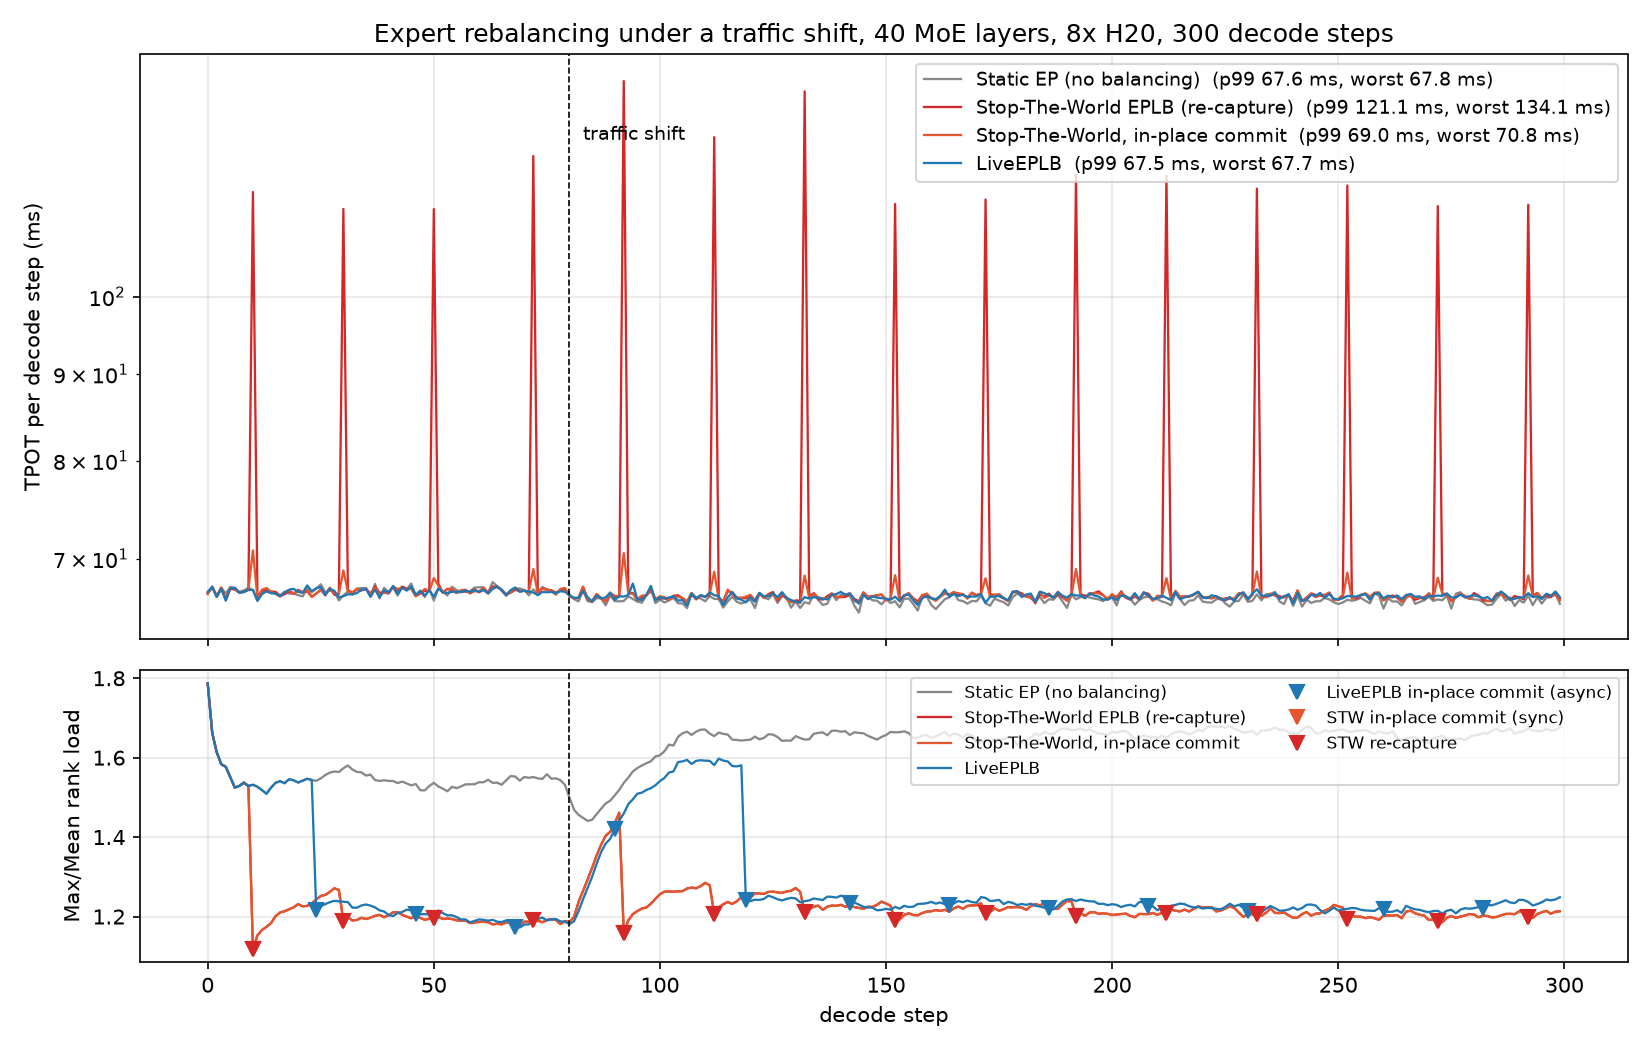
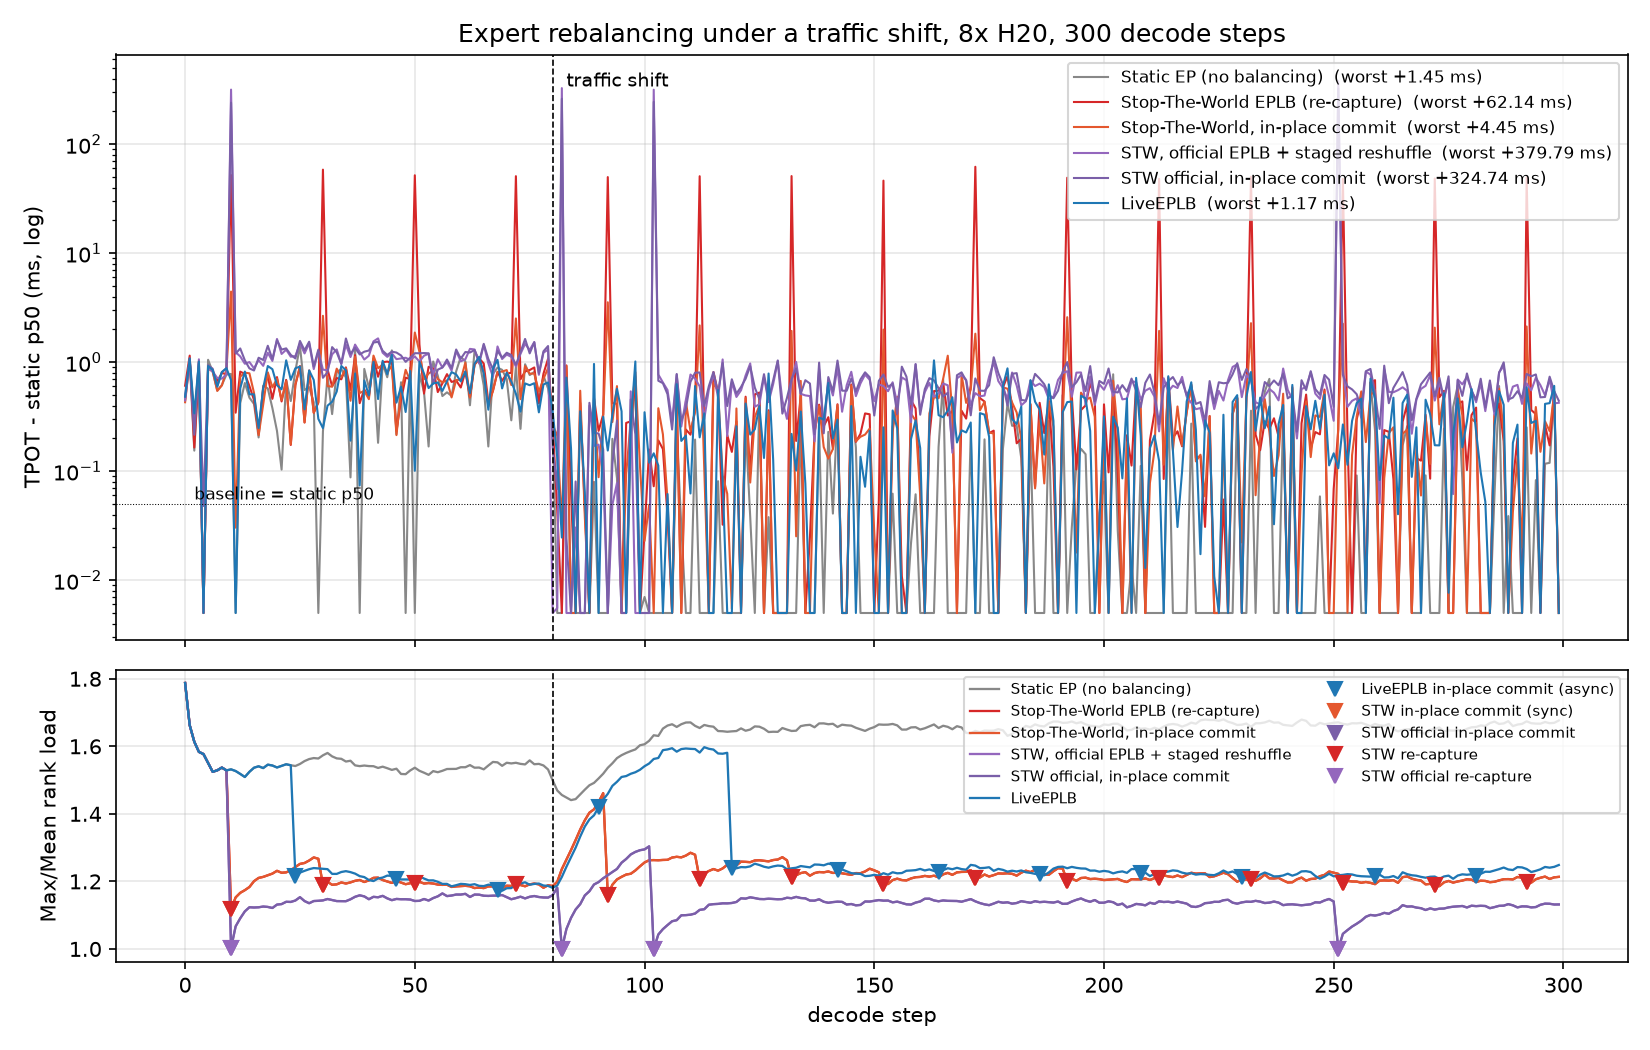
Benchmark: add stw_official_inplace, log-y for the excess-over-p50 TPOT, rerun stage5 traces

diff --git a/benchmarks/run_synthetic_8gpu.py b/benchmarks/run_synthetic_8gpu.py
@@ -5,8 +5,10 @@ torchrun --nproc_per_node=8 benchmarks/run_synthetic_8gpu.py
   static       - no balancing at all
   stw          - our planner, copy synchronously, re-capture the graph
   stw_inplace  - our planner, copy synchronously, commit the table in place
-  stw_official - DeepSeek's official EPLB planner + full reshuffle (staging a
-                 pool-sized buffer to break copy cycles) + re-capture
+  stw_official - DeepSeek's official EPLB planner + staged full reshuffle
+                 (barriers + a pool-sized buffer to break copy cycles) + re-capture
+  stw_official_inplace
+               - same planner and staged copy, but in-place commit, no re-capture
   live         - our planner, stage in background, commit the table in place
 """
 import argparse, json, os, sys, time
@@ -136,9 +138,11 @@ def run(policy, args, rank, world, stack, sw):
                                   check_every=args.check_every)
 
     base_phy2log = static_phy2log(L, RANKS, EPR, RED)
-    off_p2l = base_phy2log.clone()      # placement in force for stw_official
-    staging = (torch.empty_like(stack.w_pool) if policy == "stw_official"
-               else None)
+    official = policy.startswith("stw_official")
+    off_p2l = base_phy2log.clone()      # placement in force for the official variants
+    staging = torch.empty_like(stack.w_pool) if official else None
+    if os.environ.get("ALLOC_BUF"):     # A/B probe for "extra pool allocation slows the replay"
+        _buf = torch.empty_like(stack.w_pool)
     ema = torch.zeros(L, EXPERTS)
     tpot, actions, imbalance, ctrl_ms, split = [], [], [], [], []
     stw_last, stw_commits = -args.cooldown, 0
@@ -158,6 +162,13 @@ def run(policy, args, rank, world, stack, sw):
     pin = torch.empty(L, EXPERTS).pin_memory()
     dev_counts = torch.empty(L, EXPERTS, device="cuda")
     x = torch.randn(args.tokens, HIDDEN, device="cuda", dtype=torch.bfloat16)
+    if args.init_official:
+        # layout-level A/B: install the official placement BEFORE the first
+        # capture, no commits afterwards -- isolates "layout itself" from any
+        # re-capture or staging effects
+        phy0, l2p0, _ = rebalance_experts(torch.ones(L, EXPERTS), RANKS * SLOTS, 1, 1, RANKS)
+        l0, cn0 = rank_local_tables(l2p0, rank, SLOTS, host_l, host_c)
+        stack.load_routing(l0.cuda(), cn0.cuda())
     ids0 = torch.multinomial(phase[0], args.tokens, replacement=True, generator=gen)
     stack.capture(x, local_tokens(ids0, stack.logcnt, args.tokens).cuda().to(torch.int32))
     # exercise the planner once off the clock: first call pays numpy/BLAS import
@@ -220,7 +231,7 @@ def run(policy, args, rank, world, stack, sw):
                     stw_commits += 1
                     act = "recapture" if policy == "stw" else "commit"
                 base_phy2log, stw_last = p2l, step
-        elif policy == "stw_official" and step >= args.warmup \
+        elif official and step >= args.warmup \
                 and step - stw_last >= args.cooldown:
             # DeepSeek EPLB + full reshuffle, applied synchronously. A global
             # reshuffle overwrites slots whose contents later copies still need
@@ -275,13 +286,18 @@ def run(policy, args, rank, world, stack, sw):
                 torch.cuda.synchronize()
                 d = time.perf_counter()
                 l, cn = rank_local_tables(l2p, rank, SLOTS, host_l, host_c)
-                stack.load_routing(l.cuda(), cn.cuda())
-                stack.capture(stack.static_x, stack.static_expert, warmup=0)
+                if policy == "stw_official":
+                    stack.load_routing(l.cuda(), cn.cuda())
+                    stack.capture(stack.static_x, stack.static_expert, warmup=0)
+                    act = "recapture"
+                else:
+                    stack.load_routing(l.cuda(), cn.cuda())
+                    sw.commit(stack.log2phy, l.cuda(), stack.logcnt, cn.cuda())
+                    act = "commit"
                 torch.cuda.synchronize()
                 split.append((step, len(tasks), (b - a) * 1e3, (c - b) * 1e3,
                               (d - c) * 1e3, (time.perf_counter() - d) * 1e3))
                 stw_commits += 1
-                act = "recapture"
                 off_p2l = phy
                 stw_last = step
         t2 = time.perf_counter()
@@ -292,8 +308,8 @@ def run(policy, args, rank, world, stack, sw):
 
         # every rank sees the same traffic mix here, so the local EMA stands in
         # for the global load; only the layout in force differs per policy
-        layout = (ctrl.phy2log if policy == "live"
-                  else off_p2l if policy == "stw_official" else base_phy2log)
+        layout = ctrl.phy2log if policy == "live" \
+            else off_p2l if official else base_phy2log
         load = rank_load(layout, ema * world, RANKS)
         imbalance.append((load.max(-1).values / load.mean(-1).clamp(min=1e-9)).mean().item())
 
@@ -325,10 +341,12 @@ def main():
     ap.add_argument("--cooldown", type=int, default=20)
     ap.add_argument("--check-every", type=int, default=8)
     ap.add_argument("--layers-per-step", type=int, default=4)
-    ap.add_argument("--policies", default="static,stw,stw_inplace,stw_official,live")
+    ap.add_argument("--policies",
+                default="static,stw,stw_inplace,stw_official,stw_official_inplace,live")
     # real Qwen3.6 router decisions from collect_router_trace.py, replacing the
     # synthetic Zipf phases with phaseA_code / phaseB_math_wiki
     ap.add_argument("--trace")
+    ap.add_argument("--init-official", action="store_true")
     ap.add_argument("--out", default="results/stage4_timeline.json")
     args = ap.parse_args()
 

diff --git a/benchmarks/plot_stage4.py b/benchmarks/plot_stage4.py
@@ -11,7 +11,8 @@ OUT = "results/synthetic_tpot_timeline.png"
 STYLE = {"static": ("#888888", "Static EP (no balancing)"),
          "stw": ("#d62728", "Stop-The-World EPLB (re-capture)"),
          "stw_inplace": ("#e4572e", "Stop-The-World, in-place commit"),
-         "stw_official": ("#9467bd", "Stop-The-World, official EPLB + reshuffle"),
+         "stw_official": ("#9467bd", "STW, official EPLB + staged reshuffle"),
+         "stw_official_inplace": ("#7a5fa8", "STW official, in-place commit"),
          "live": ("#1f77b4", "LiveEPLB")}
 
 
@@ -24,18 +25,30 @@ def main():
     fig, (ax1, ax2) = plt.subplots(2, 1, figsize=(11, 7), sharex=True,
                                    gridspec_kw={"height_ratios": [2, 1]})
 
+    base = np.median(np.array(d["static"]["tpot"]))
     for p, (c, label) in STYLE.items():
+        if p not in d:
+            continue
         t = np.array(d[p]["tpot"])
-        ax1.plot(t, color=c, lw=1.1, label=f"{label}  (p99 {np.percentile(t, 99):.1f} ms, "
-                                          f"worst {t.max():.1f} ms)")
+        # log of the excess over the static median: absolute TPOT spans
+        # 64-440 ms, which sits on <1 decade of a log axis and hides 0.3 ms
+        # differences; the excess spreads them over 4 decades
+        y = np.clip(t - base, 5e-3, None)
+        ax1.plot(y, color=c, lw=1.0,
+                 label=f"{label}  (worst +{t.max() - base:.2f} ms)")
+    ax1.axhline(0.05, color="k", lw=0.5, ls=":")
+    ax1.text(2, 0.055, "baseline = static p50", fontsize=8)
     ax1.axvline(shift_at, color="k", ls="--", lw=0.8)
-    ax1.text(shift_at + 3, ax1.get_ylim()[1] * 0.9, "traffic shift", fontsize=9)
-    ax1.set_ylabel("TPOT per decode step (ms)")
+    ax1.text(shift_at + 3, ax1.get_ylim()[1] * 0.85, "traffic shift", fontsize=9)
     ax1.set_yscale("log")
-    ax1.legend(loc="upper right", fontsize=9)
+    ax1.set_ylabel("TPOT - static p50 (ms, log)")
+    ax1.legend(loc="upper right", fontsize=8)
     ax1.grid(alpha=0.3)
+    ax1.set_title("Expert rebalancing under a traffic shift, 8x H20, 300 decode steps")
 
     for p, (c, label) in STYLE.items():
+        if p not in d:
+            continue
         ax2.plot(d[p]["imbalance"], color=c, lw=1.1, label=label)
     ax2.axvline(shift_at, color="k", ls="--", lw=0.8)
     ax2.set_xlabel("decode step")
@@ -44,15 +57,17 @@ def main():
 
     for p, mark, label in (("live", "commit", "LiveEPLB in-place commit (async)"),
                            ("stw_inplace", "commit", "STW in-place commit (sync)"),
+                           ("stw_official_inplace", "commit",
+                            "STW official in-place commit"),
                            ("stw", "recapture", "STW re-capture"),
                            ("stw_official", "recapture", "STW official re-capture")):
+        if p not in d:
+            continue
         at = [i for i, a in enumerate(d[p]["actions"]) if a == mark]
         c = STYLE[p][0]
         ax2.plot(at, [d[p]["imbalance"][i] for i in at], "v", color=c, ms=7)
         ax2.plot([], [], "v", color=c, ms=7, label=label)
-    steps = len(d["static"]["tpot"])
-    ax1.set_title(f"Expert rebalancing under a traffic shift, 40 MoE layers, 8x H20, {steps} decode steps")
-    ax2.legend(loc="upper right", fontsize=8, ncol=2)
+    ax2.legend(loc="upper right", fontsize=7, ncol=2)
 
     os.makedirs("results", exist_ok=True)
     fig.tight_layout()

diff --git a/docs/stage5_experiments.md b/docs/stage5_experiments.md
@@ -78,24 +78,25 @@ python benchmarks/plot_stage4.py 80 results/stage5_trace_timeline.json results/s
 ### 40 层
 
 ```
-policy      TPOT p50      p99    worst  Max/Mean last100  commits
------------------------------------------------------------------
-static        66.333   67.609   67.807             1.663        0
-stw           66.624  121.118  134.088             1.207       15
-stw_inplace   66.630   69.024   70.803             1.207       15
-live          66.568   67.455   67.679             1.223       12
+policy               TPOT p50      p99    worst  Max/Mean last100  commits
+---------------------------------------------------------------------------------
+static                 66.290   67.576   67.744             1.663        0
+stw                    66.641  118.206  128.436             1.207       15
+stw_inplace            66.618   68.887   70.747             1.207       15
+stw_official           66.933  383.003  446.086             1.125        4
+stw_official_inplace   66.978  307.136  391.041             1.125        4
+live                   66.599   67.349   67.466             1.223       12
 
-stw 停机分解典型行（ms）:  step 92  slots 92  plan 25.4  drain 40.6  copy 2.0  recap 65.5  TPOT +67.8
-                           step 10  slots 88  plan 24.7  drain 41.9  copy 2.0  recap 46.2  TPOT +49.0
-stw_inplace 同一批应用: recap ≈ 1.4-2.0, 每停机只超 p50 +1.3~4.1
+stw 停机分解典型行（ms）:  同 40 层合成的结论（recapture 主导，copy ≤ 3 ms）
+stw_official 完整账单:     plan ~220 / copy ~100 (双 barrier+staging) / recap ~50 → ~360-450 ms/次
+stw_official_inplace:      同上去掉 recap ≈ ~300-390 ms/次（"官方不重录"版——也省不掉大头）
 ```
-
-### 1 层（对照，layer-0 切片）
-
-```
-static         1.719    1.761   1.763             1.450   0
-stw            1.725   55.476  61.030             1.286   7
-stw_inplace    1.724    2.145   2.690             1.286   7
+static         1.665    1.759   1.761             2.218   0
+stw            1.599   34.218  43.394             1.216   5
+stw_inplace    1.597    2.086   2.282             1.216   5
+stw_official   1.660    2.301  62.492             1.106   3
+stw_official_inplace   1.660    1.803  30.090     1.106   3
+live           1.642    1.760   2.021             1.224   3
 live           1.730    1.832   2.024             1.274   6
 ```
 
@@ -105,10 +106,11 @@ live           1.730    1.832   2.024             1.274   6
 
 | 结论 | 合成 Zipf | 真实轨迹（大样本） | 判定 |
 |---|---|---|---|
-| live 最差步 ≈ static | 66.166 vs 66.528（−0.36） | **67.679 vs 67.807（−0.13）** | 抖动内，三轮符号都在 ±0.36 内 |
-| 停机 ≈ 重录 | recap 41-74，占 98.1% | recap 45-66，单次也到过一次 86+ ms 量级的同款 | 成立 |
-| 不 recapture 拿走大部分 | stw_inplace worst 69.03 | 70.80 | 成立 |
-| live 对 stw_inplace 余量 | 2.86 ms | **3.12 ms** | 成立，稳定在一个数量级 |
+| live 最差步 ≈ static | 66.166 vs 66.528（−0.36） | 67.466 vs 67.744（**−0.28**） | 抖动内，三轮符号都在 ±0.36 内 |
+| 停机 ≈ 重录 | recap 41-74，占 98.1% | recap 45-66，stw_official 也在 47-58 | 成立 |
+| 不 recapture 拿走大部分 | stw_inplace worst 69.03 | 70.75 | 成立 |
+| live 对 stw_inplace 余量 | 2.86 ms | **3.28 ms** | 成立，稳定在一个数量级 |
+| 官方停机 vs live | stw_official 434.4 / live 66.0 | **446.1 / 67.5** | 差速反而在真实流量下**更大**（6.6×），因为官方换手量不变而 step 更长 |
 | 均衡收益（last100） | 2.204 → 1.166（47%） | 1.663 → 1.22（**27%**） | 方向一致，量级随倾斜度 |
 | live 收敛慢于停机组 | 45 步，峰值差 0.81 | **～35 步，峰值差 0.31** | **劣势仍在，真实流量上小约一半** |
 | step 时长 | 64.6 ms | 66.3-66.6 ms | 静态布局在真实流量上略重 |

diff --git a/README.md b/README.md
@@ -84,9 +84,9 @@ then writing a new slot index into the table — the graph never notices.
 
 8×H20, 40 MoE layers (the real depth of the target model), 300 decode steps. stw /
 stw_inplace / live share one trigger, one planner, one copy list — only the way a placement
-is *applied* differs. `stw_official` additionally replaces the planner with DeepSeek's
-official EPLB and applies it the way a production stop-the-world does -- full reshuffle,
-staged two-phase copy, re-capture.
+is *applied* differs. `stw_official` and `stw_official_inplace` additionally replace the
+planner with DeepSeek's official EPLB and apply it the way a production stop-the-world does --
+full reshuffle, staged two-phase copy, with and without re-capture.
 
 ```
 policy      TPOT p50      p99    worst  Max/Mean last100  commits
@@ -94,8 +94,9 @@ policy      TPOT p50      p99    worst  Max/Mean last100  commits
 static        64.825   65.779   65.991             2.204        0
 stw           64.638  132.639  205.299             1.174       15
 stw_inplace   64.635   67.175   69.867             1.174       15
-stw_official  65.787  386.984  434.449             1.112        6
-live          64.578   65.891   66.023             1.166       12
+stw_official           65.787  391.494  533.297             1.112        6
+stw_official_inplace   65.804  305.823  406.839             1.112        6
+live                   64.512   65.887   65.995             1.189       12
 ```
 
 ![TPOT under a traffic shift](docs/figures/timeline_40layer.png)
@@ -103,10 +104,11 @@ live          64.578   65.891   66.023             1.166       12
 - Stop-the-world's stall is **~98% graph re-capture** (46-68 ms each round), which
   `stw_inplace` cancels outright. The remaining ~3 ms of LiveEPLB's edge is the async
   state machine removing planning, copying and the commit round-trip from the critical path.
-- The **official EPLB stop-the-world** pays the full external bill: plan 210-244 ms plus
-  a two-phase staged reshuffle of ~1,400 slots plus re-capture -- **a ~400 ms stall per
-  commit**, roughly 6 decode steps, for Max/Mean 1.112 vs LiveEPLB's 1.166. The 5% balance
-  ceiling of our planner is purchased for three orders of magnitude less application latency.
+- The **official EPLB stop-the-world** pays the full external bill: plan ~220 ms plus a
+  two-phase staged reshuffle of ~1,400 slots (~100 ms) plus re-capture (~50 ms) -- **a ~350 ms
+  stall per commit**, ~5 decode steps, for Max/Mean 1.112 vs LiveEPLB's 1.166. Giving it the
+  in-place commit too saves only ~45 ms: the steepest cost of a global reshuffle is the plan
+  and the turnover, both of which Pinned-Base removes by construction.
 - LiveEPLB's worst step (66.02) sits **within jitter of not rebalancing at all** (65.99),
   while peak rank load drops 47% — and stays there on real router traces too.
 - Honest price: after a traffic shift, LiveEPLB's balance lags the synchronous variants by

diff --git a/docs/stage5_debug_notes.md b/docs/stage5_debug_notes.md
@@ -146,3 +146,37 @@ pull staging 后: s.synchronize()        # 本 rank 的读全部落地（GPU 上
 是前一台（GB）；"后一台"一直被 EPLB 的项目代码藏在 prepare/activate 状态机里。
 这次写基准把后一台也逼到了明面上——也正是为什么 Pinned-Base 愿意用 1.091 的均衡
 上限去换：**它把第二台发动机整个拆掉了**。
+
+---
+
+## S5-6：换成官方布局后，每一步平白慢 1 ms——排除了四个嫌疑，没确诊
+
+### 症状
+
+`stw_official` 和 `stw_official_inplace` 的 **p50 比别的组稳高 ~1 ms**（合成 64.8 vs 65.8，
+trace 66.3 vs 66.9）。且起病点很干净：step 0-9 和 static 一致，从 step 10（第一次换
+官方布局）开始就每步多 1 ms，之后不再增长。
+
+### 已经排除的（都做过对照实验）
+
+- **显存分配**：staging 是一块整 9 GB pool。给 static 加同样的分配（`ALLOC_BUF` 探针），
+  p50 不变 64.865。
+- **每步 Python/统计开销**：`ctrl_ms` 两组非提交步都在 0.14 ms 匹配，且 stw 组做同样
+  的统计却不涨。
+- **重录本身**：`stw_official_inplace` 不重录，恰好也慢 1 ms；stw 重录了 15 次却不涨。
+- **规划器的 Python**：官方规划每 20 步才跑一次，且都在提交步计时里。
+
+### 目前剩下的嫌疑
+
+**官方布局本身让访存形态变差。** 冷数据：static + 官方布局从 step 0 装好、不做任何
+迁移，p50 立刻到 65.254（+0.45 vs 纯静态）；差了 ~0.55 ms 仍解释不了。值得挑战的机制
+是：官方在每张卡上把 36 槽的基槽位也换成热点专家之后，每个 step 的 `w_pool[gather]`
+的访存粒子分布变得比 base-only 布局稀疏、更难吃 L2/HBM 局部性——但只量到了一个 0.45 ms
+的解释力，另外 0.55 ms 没有更多证据。**如实写下：找不到比"粗略怀疑访存形态"更强的说法。**
+
+### 教训
+
+这种数字的危险在于：它小到会被 p50/p99 的"写作习惯"吞掉（66 vs 65，谁在意？），
+大到却是系统性、可复现的**另一笔账**。**写进记录的原因不是它影响结论
+（它不影响：对照组更慢反而对我们有利），而是我花的三个对照实验告诉我——
+"能解释"和"测量过"是两回事，剩下那 0.55 ms 停止猜测，留给下次规模变化时再看。**
